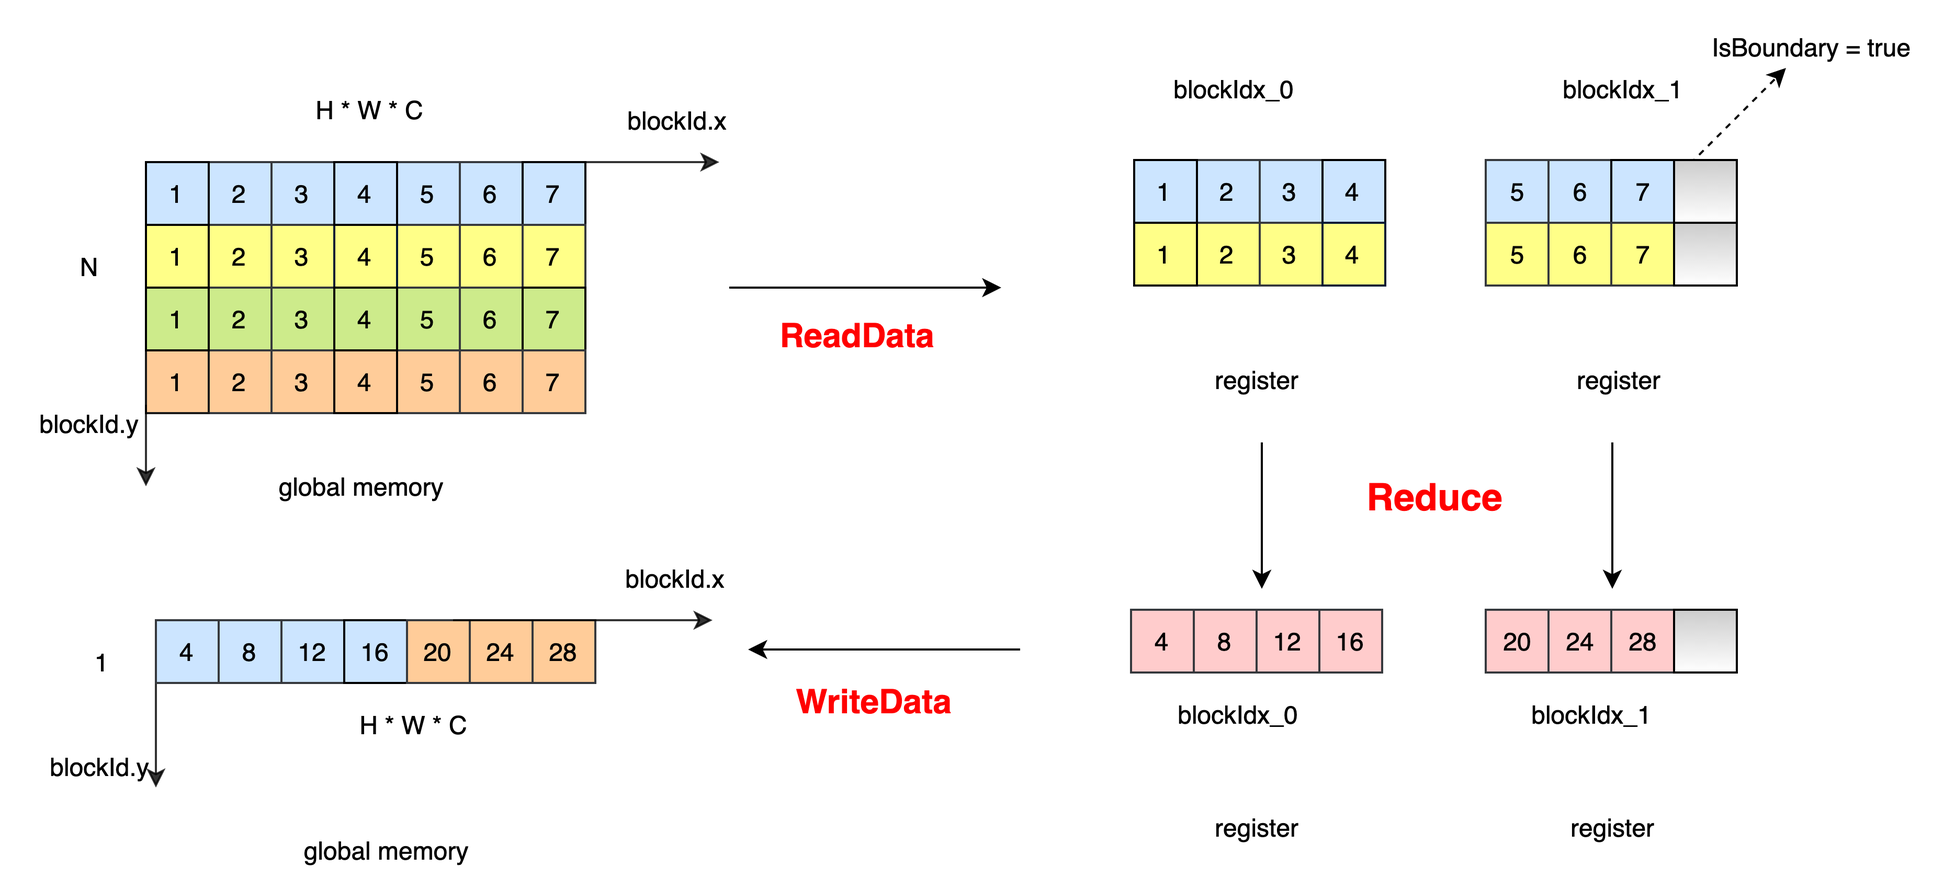
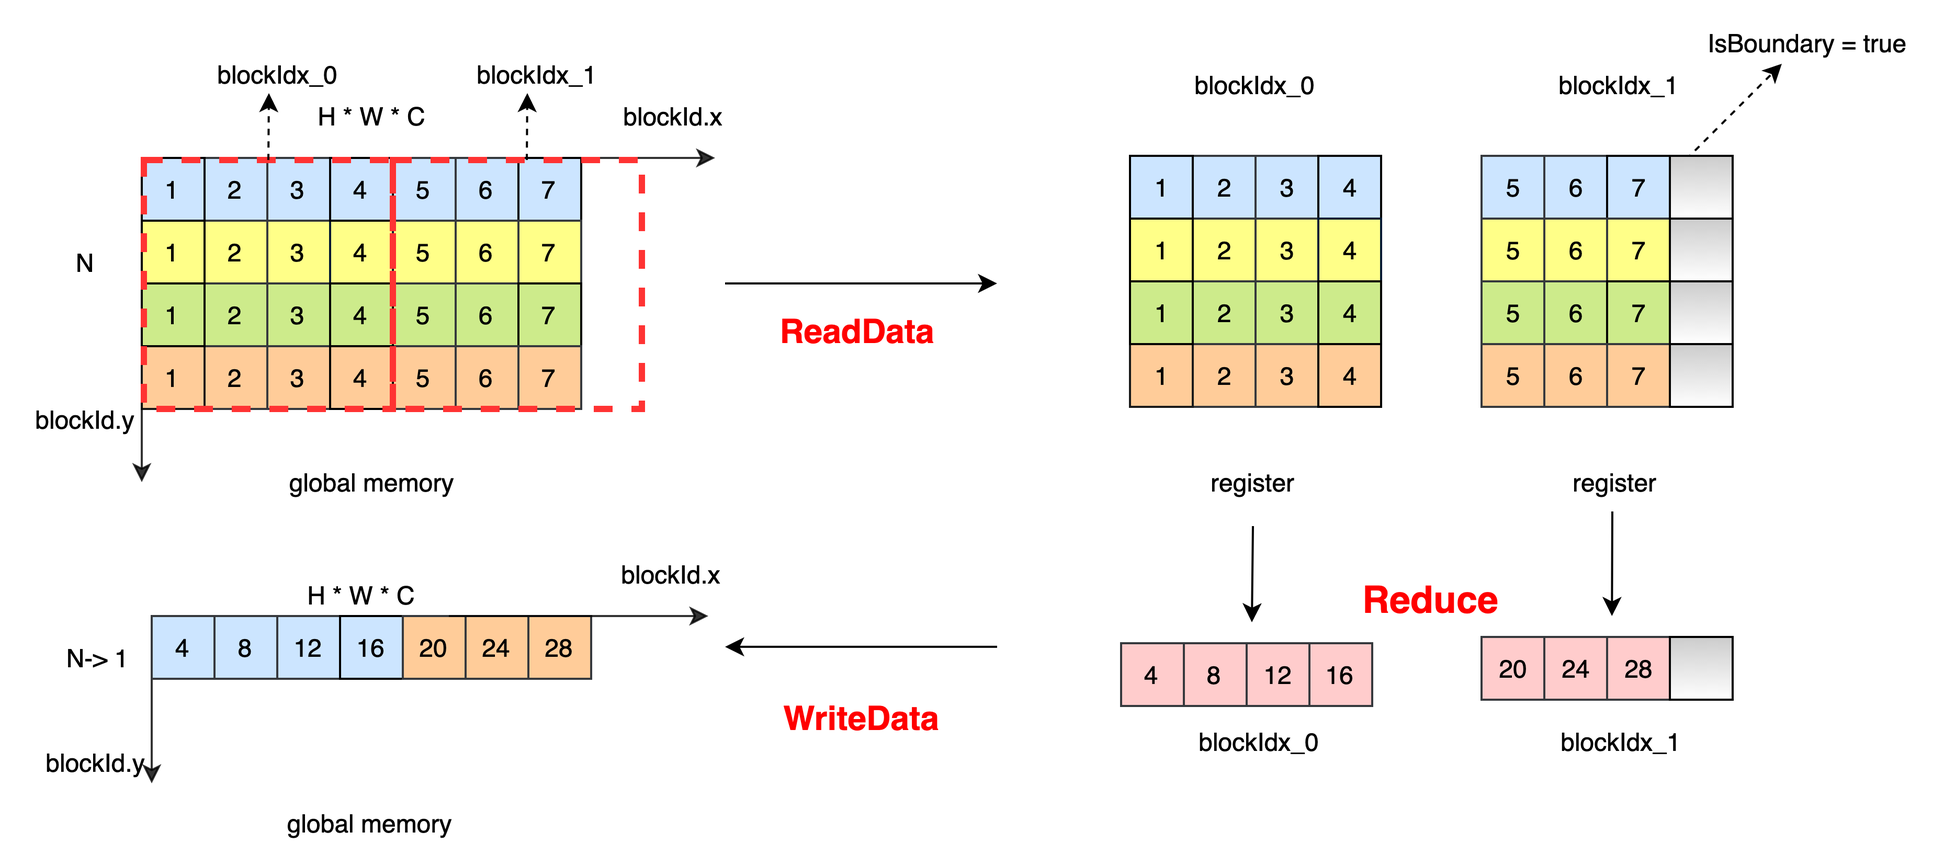
update and add example_add png

diff --git a/docs/guides/11_kernel_primitives_api/compute_api_cn.md b/docs/guides/11_kernel_primitives_api/compute_api_cn.md
@@ -32,7 +32,7 @@ __device__ void ElementwiseUnary(OutT* out, const InT* in, OpFunc compute)；
 
 > out ：输出寄存器指针，大小为 NX * NY。</br>
 > in ：输入寄存器指针，大小为 NX * NY。</br>
-> compute ：计算函数，声明为 OpFunc&lt;InT, OutT&gt;()。</br>
+> compute ：计算函数，声明为 XxxFunctor&lt;InT, OutT&gt;()。</br>
 
 ## [ElementwiseBinary](https://github.com/PaddlePaddle/Paddle/blob/develop/paddle/fluid/operators/kernel_primitives/compute_primitives.h#L173)
 ### 函数定义
@@ -55,9 +55,9 @@ __device__ void ElementwiseBinary(OutT* out, const InT* in1, const InT* in2, OpF
 > BlockSize ：设备属性，标识当前设备线程索引方式。对于 GPU，threadIdx.x 用作线程索引，当前该参数暂不支持。</br>
 > OpFunc ：计算函数，定义方式如下：</br>
 ```
-  template <typename InT, typename OutT>
+  template <typename InT>
   struct XxxFunctor {
-    HOSTDEVICE OutT operator()(const InT& a, const InT& b) const {
+    HOSTDEVICE InT operator()(const InT& a, const InT& b) const {
       return ...;
     }
   };
@@ -69,7 +69,7 @@ __device__ void ElementwiseBinary(OutT* out, const InT* in1, const InT* in2, OpF
 > out ：输出寄存器指针，大小为 NX * NY。</br>
 > in1 ：左操作数寄存器指针，大小为 NX * NY。</br>
 > in2 ：右操作数寄存器指针，大小为 NX * NY。</br>
-> compute ：声明为 OpFunc&lt;InT, OutT&gt;() 的计算对象。</br>
+> compute ：声明为 XxxFunctor&lt;InT&gt;() 的计算对象。</br>
 
 ## [CycleBinary](https://github.com/PaddlePaddle/Paddle/blob/develop/paddle/fluid/operators/kernel_primitives/compute_primitives.h#L291)
 
@@ -82,7 +82,7 @@ __device__ void CycleBinary(OutT* out, const InT* in1, const InT* in2, OpFunc co
 
 ### 函数说明
 
-按照 OpFunc 中的计算规则对 in1、in2 进行计算，将计算结果按照 OutT 类型存储到寄存器 out 中。in1 的 Shape 为[1, NX], in2 的 Shape 为 [NY, NX]，实现 in1，in2 的循环计算，out 的 Shape 是[NY, NX]。
+按照 OpFunc 中的计算规则对 in1、in2 进行计算，将计算结果按照 OutT 类型存储到寄存器 out 中。in1 的 Shape 为[1, NX]，in2 的 Shape 为 [NY, NX]，实现 in1，in2 的循环计算，out 的 Shape 是[NY, NX]。
 
 ### 模板参数
 
@@ -93,9 +93,9 @@ __device__ void CycleBinary(OutT* out, const InT* in1, const InT* in2, OpFunc co
 > BlockSize ：设备属性，标识当前设备线程索引方式。对于 GPU，threadIdx.x 用作线程索引，当前该参数暂不支持。</br>
 > OpFunc ：计算函数，定义方式如下：</br>
 ```
-  template <typename InT, typename OutT>
+  template <typename InT>
   struct XxxFunctor {
-    HOSTDEVICE OutT operator()(const InT& a, const InT& b) const {
+    HOSTDEVICE InT operator()(const InT& a, const InT& b) const {
       return ...;
     }
   };
@@ -107,7 +107,7 @@ __device__ void CycleBinary(OutT* out, const InT* in1, const InT* in2, OpFunc co
 > out ：输出寄存器指针，大小为 NX * NY。</br>
 > in1 ：左操作数寄存器指针，大小为 NX。</br>
 > in2 ：右操作数寄存器指针，大小为 NX * NY。</br>
-> compute ：声明为 OpFunc&lt;InT, OutT&gt;() 的计算对象。</br>
+> compute ：声明为 XxxFunctor&lt;InT&gt;() 的计算对象。</br>
 
 ## [ElementwiseTernary](https://github.com/PaddlePaddle/Paddle/blob/develop/paddle/fluid/operators/kernel_primitives/compute_primitives.h#L210)
 
@@ -132,9 +132,9 @@ template <typename InT, typename OutT, int NX, int NY, int BlockSize, class OpFu
 > BlockSize ：设备属性，标识当前设备线程索引方式。对于 GPU，threadIdx.x 用作线程索引，当前该参数暂不支持。</br>
 > OpFunc ：计算函数，定义方式如下：</br>
 ```
-  template <typename InT, typename OutT>
+  template <typename InT>
   struct XxxFunctor {
-    HOSTDEVICE OutT operator()(const InT& a, const InT& b, const InT& c) const {
+    HOSTDEVICE InT operator()(const InT& a, const InT& b, const InT& c) const {
       return ...;
     }
   };
@@ -143,10 +143,10 @@ template <typename InT, typename OutT, int NX, int NY, int BlockSize, class OpFu
 ### 函数参数
 
 > out ：输出寄存器指针，大小为 NX * NY。</br>
-> in1 ：操作数1的寄存器指针，大小为 NX * NY。</br>
-> in2 ：操作数2的寄存器指针，大小为 NX * NY。</br>
-> in3 ：操作数3的寄存器指针，大小为 NX * NY。</br>
-> compute : 声明为 OpFunc&lt;InT, OutT&gt;() 的计算对象。</br>
+> in1 ：操作数 1 的寄存器指针，大小为 NX * NY。</br>
+> in2 ：操作数 2 的寄存器指针，大小为 NX * NY。</br>
+> in3 ：操作数 3 的寄存器指针，大小为 NX * NY。</br>
+> compute ：声明为 XxxFunctor&lt;InT&gt;() 的计算对象。</br>
 
 ## [ElementwiseAny](https://github.com/PaddlePaddle/Paddle/blob/develop/paddle/fluid/operators/kernel_primitives/compute_primitives.h#L250)
 
@@ -171,9 +171,9 @@ __device__ void ElementwiseAny(OutT* out, InT (*ins)[NX * NY], OpFunc compute);
 > Arity ：指针数组 ins 中指针个数。</br>
 > OpFunc ：计算函数，定义方式如下：</br>
 ```
-template <typename InT, typename OutT>
+template <typename InT>
   struct XxxFunctor {
-    HOSTDEVICE OutT operator()(const InT* args) const {
+    HOSTDEVICE InT operator()(const InT* args) const {
       return ...;
     }
   };
@@ -182,8 +182,8 @@ template <typename InT, typename OutT>
 ### 函数参数
 
 > out ：输出寄存器指针，大小为 NX * NY。</br>
-> ins ：由多输入指针构成的指针数组，大小为Arity。</br>
-> compute ：声明为 OpFunc&lt;InT, OutT&gt;() 的计算对象。</br>
+> ins ：由多输入指针构成的指针数组，大小为 Arity。</br>
+> compute ：声明为 XxxFunctor&lt;InT&gt;() 的计算对象。</br>
 
 ## [Reduce](https://github.com/PaddlePaddle/Paddle/blob/develop/paddle/fluid/operators/kernel_primitives/compute_primitives.h#L332)
 
@@ -208,9 +208,9 @@ ReduceMax 数据处理过程如下：</br>
 > BlockSize ：设备属性，标识当前设备线程索引方式。对于 GPU，threadIdx.x 用作线程索引，当前该参数暂不支持。</br>
 > ReduceFunctor ：Reduce计算函数，定义方式如下：</br>
 ```
-  template <typename InT>
-  struct XxxFunctor {
-     HOSTDEVICE OutT operator()(const InT& a, const InT& b) const {
+  template <typename T>
+  struct ReduceFunctor {
+     HOSTDEVICE T operator()(const T& a, const T& b) const {
        return ...;
      }
   };
@@ -221,5 +221,5 @@ ReduceMax 数据处理过程如下：</br>
 
 > out ：输出寄存器指针，大小为 NX * NY。</br>
 > in ：输入寄存器指针，大小为 NX * NY。</br>
-> reducer ：规约方式，可以使用 ReduceFunctor&lt;InT&gt;() 进行定义。</br>
+> reducer ：规约方式，可以使用 ReduceFunctor&lt;T&gt;() 进行定义。</br>
 > reduce_last_dim ：表示原始输入的最后一维是否进行规约。</br>

diff --git a/docs/guides/11_kernel_primitives_api/compute_api_en.md b/docs/guides/11_kernel_primitives_api/compute_api_en.md
@@ -32,7 +32,7 @@ Calculate in according to the calculation rules in OpFunc, and store the calcula
 
 > out: Output register pointer, the size is NX * NY. </br>
 > in: Input register pointer, the size is NX * NY. </br>
-> compute: Calculation function, declared as OpFunc&lt;InT, OutT&gt;(). </br>
+> compute: Calculation function, declared as XxxFunctor&lt;InT&gt;(). </br>
 
 ## [ElementwiseBinary](https://github.com/PaddlePaddle/Paddle/blob/develop/paddle/fluid/operators/kernel_primitives/compute_primitives.h#L173)
 ### Function Definition
@@ -55,9 +55,9 @@ Calculate in1 and in2 according to the calculation rules in OpFunc, and store th
 > OpFunc: calculation function, defined as follows:</br>
 
 ```
-  template <typename InT, typename OutT>
+  template <typename InT>
   struct XxxFunctor {
-    HOSTDEVICE OutT operator()(const InT& a, const InT& b) const {
+    HOSTDEVICE InT operator()(const InT& a, const InT& b) const {
       return ...;
     }
   };
@@ -69,7 +69,7 @@ Calculate in1 and in2 according to the calculation rules in OpFunc, and store th
 > out: Output register pointer, the size is NX * NY. </br>
 > in1: The pointer of the left operand register, the size is NX * NY. </br>
 > in2: Right operand register pointer, the size is NX * NY. </br>
-> compute: The calculation object declared as OpFunc&lt;InT, OutT&gt;(). </br>
+> compute: The calculation object declared as XxxFunctor&lt;InT&gt;(). </br>
 
 ## [CycleBinary](https://github.com/PaddlePaddle/Paddle/blob/develop/paddle/fluid/operators/kernel_primitives/compute_primitives.h#L291)
 
@@ -93,9 +93,9 @@ Calculate in1 and in2 according to the calculation rules in the OpFunc, and stor
 > BlockSize: Device attribute, which identifies the current device thread indexing method. For GPU, threadIdx.x is used as the thread index, This parameter is not currently supported. </br>
 > OpFunc: calculation function, defined as follows:</br>
 ```
-  template <typename InT, typename OutT>
+  template <typename InT>
   struct XxxFunctor {
-    HOSTDEVICE OutT operator()(const InT& a, const InT& b) const {
+    HOSTDEVICE InT operator()(const InT& a, const InT& b) const {
       return ...;
     }
   };
@@ -107,7 +107,7 @@ Calculate in1 and in2 according to the calculation rules in the OpFunc, and stor
 > out: Output register pointer, the size is NX * NY. </br>
 > in1: The pointer of the left operand register, the size is NX. </br>
 > in2: Right operand register pointer, the size is NX * NY. </br>
-> compute: The calculation object declared as OpFunc&lt;InT, OutT&gt;(). </br>
+> compute: The calculation object declared as XxxFunctor&lt;InT&gt;(). </br>
 
 ## [ElementwiseTernary](https://github.com/PaddlePaddle/Paddle/blob/develop/paddle/fluid/operators/kernel_primitives/compute_primitives.h#L210)
 
@@ -133,9 +133,9 @@ Calculate in1, in2, and in3 according to the calculation rules in OpFunc, and st
 > OpFunc: calculation function, defined as follows:</br>
 
 ```
-  template <typename InT, typename OutT>
+  template <typename InT>
   struct XxxFunctor {
-    HOSTDEVICE OutT operator()(const InT& a, const InT& b, const InT& c) const {
+    HOSTDEVICE InT operator()(const InT& a, const InT& b, const InT& c) const {
       return ...;
     }
   };
@@ -147,7 +147,7 @@ Calculate in1, in2, and in3 according to the calculation rules in OpFunc, and st
 > in1: The register pointer of operand 1, the size is NX * NY. </br>
 > in2: The register pointer of operand 2, the size is NX * NY. </br>
 > in3: The register pointer of operand 3, the size is NX * NY. </br>
-> compute: Declared as the calculation object of OpFunc&lt;InT, OutT&gt;(). </br>
+> compute: Declared as the calculation object of XxxFunctor&lt;InT&gt;(). </br>
 
 ## [ElementwiseAny](https://github.com/PaddlePaddle/Paddle/blob/develop/paddle/fluid/operators/kernel_primitives/compute_primitives.h#L250)
 
@@ -172,9 +172,9 @@ Calculate the input in ins according to the calculation rules in OpFunc, and sto
 > Arity: The number of pointers in the pointer array ins. </br>
 > OpFunc: calculation function, defined as follows:</br>
 ```
-template <typename InT, typename OutT>
+template <typename InT>
   struct XxxFunctor {
-    HOSTDEVICE OutT operator()(const InT* args) const {
+    HOSTDEVICE InT operator()(const InT* args) const {
       return ...;
     }
   };
@@ -185,7 +185,7 @@ template <typename InT, typename OutT>
 
 > out: Output register pointer, the size is NX * NY. </br>
 > ins: A pointer array composed of multiple input pointers, the size is Arity. </br>
-> compute: The calculation object declared as OpFunc&lt;InT, OutT&gt;(). </br>
+> compute: The calculation object declared as XxxFunctor&lt;InT&gt;(). </br>
 
 ## [Reduce](https://github.com/PaddlePaddle/Paddle/blob/develop/paddle/fluid/operators/kernel_primitives/compute_primitives.h#L332)
 
@@ -210,9 +210,9 @@ The data processing process of ReduceMax is as follows:</br>
 > BlockSize: Device attribute, which identifies the current device thread indexing method. For GPU, threadIdx.x is used as the thread index, This parameter is not currently supported. </br>
 > ReduceFunctor: Reduce calculation function, defined as follows:</br>
 ```
-  template <typename InT>
-  struct XxxFunctor {
-     HOSTDEVICE OutT operator()(const InT& a, const InT& b) const {
+  template <typename T>
+  struct ReduceFunctor {
+     HOSTDEVICE T operator()(const T& a, const T& b) const {
        return ...;
      }
   };
@@ -223,5 +223,5 @@ The data processing process of ReduceMax is as follows:</br>
 
 > out: Output register pointer, the size is NX * NY. </br>
 > in: Input register pointer, the size is NX * NY. </br>
-> reducer: reduction method, which can be defined using ReduceFunctor&lt;InT&gt;(). </br>
+> reducer: reduction method, which can be defined using ReduceFunctor&lt;T&gt;(). </br>
 > reduce_last_dim: Indicates whether the last dimension of the original input is reduced. </br>

diff --git a/docs/guides/11_kernel_primitives_api/add_example_en.md b/docs/guides/11_kernel_primitives_api/add_example_en.md
@@ -7,15 +7,16 @@
 ```
 OpFunc : Used to define calculation rules. Addfunctor is defined as follows:
 
-template <typename InT, typename OutT = OutT>
+template <typename InT>
 struct AddFunctor {
-  HOSTDEVICE OutT operator()(const InT &a, const InT &b) const { return static_cast<OutT>(a + b); }
+  HOSTDEVICE InT operator()(const InT &a, const InT &b) const { return (a + b); }
 };
 
 ```
 ### Kernel Description
-
-VecSize means that each thread continuously reads VecSize elements. According to the relationship between the remaining elements num and the maximum number of elements processed by each Block VecSize * blockDim.x, the data processing is divided into two parts. The first part is VecSize * blockDim. x > num indicates that the current data processing requires boundary processing, set IsBoundary to true to avoid fetching out of bounds. In the second part, no boundary processing is required, set IsBoundary = false. Note that the Init function is used here to initialize the registers arg0 and arg1 to avoid the situation where arg0 or arg1 is used as a divisor to be 0. The summation operation of two numbers is completed according to OpFunc. When two numbers need to be multiplied, the Functor can be directly modified. Kernel code can be reused directly to improve development efficiency.
+Each thread reads VecSize elements continuously, and divides the data processing into 2 parts according to the relationship between the remaining elements num and VecSize * blockDim.x. The first part, when VecSize * blockDim.x > num, indicates that the current data processing requires boundary processing, IsBoundary is set to true to avoid memory fetching out of bounds; the second part, no boundary processing is required, set IsBoundary = false. According to the data pointer of the current block, the data is read from the global memory to the register, and after the addition operation, the data is written into the global memory. Note that the Init function is used here to initialize the registers arg0 and arg1 to avoid the situation where arg0 or arg1 is used as the denominator to be 0. The summation of two numbers is completed according to OpFunc. When two numbers need to be multiplied, the Functor can be directly modified. Kernel code can be reused directly to improve development efficiency. </br>
+The data processing process of ElementwiseAdd is as follows:</br>
+![ElementwiseAdd](./images/example_add.png)
 
 ### Code
 

diff --git a/docs/guides/11_kernel_primitives_api/add_example_cn.md b/docs/guides/11_kernel_primitives_api/add_example_cn.md
@@ -7,15 +7,18 @@
 ```
 OpFunc: 用于定义当前数据的计算规则，AddFunctor 定义如下：
 
-template <typename InT, typename OutT = OutT>
+template <typename InT>
 struct AddFunctor {
-  HOSTDEVICE OutT operator()(const InT &a, const InT &b) const { return static_cast<OutT>(a + b); }
+  HOSTDEVICE InT operator()(const InT &a, const InT &b) const { return (a + b); }
 };
 
 ```
 ### Kernel 实现说明
 
-VecSize 表示每个线程连续读取 VecSize 个元素，根据剩余元素 num 与每个 Block 最大处理的元素个数 VecSize * blockDim.x 的关系，将数据处理分为 2 部分，第一部分，当 VecSize * blockDim.x > num 表示当前数据处理需要进行边界处理，因此将 IsBoundary 设置为 true，避免访存越界; 第二部分，不需要进行边界处理，设置 IsBoundary = false。注意此处使用 Init 函数对寄存器 arg0，arg1 进行初始化，避免当 arg0 或者 arg1 作为分母时出现为 0 的情况。此处根据 OpFunc 完成两数求和操作，当需要进行两数相乘，可以直接修改对应的 Functor 即可，可以直接复用 Kernel 代码，提升开发效率。
+每个线程连续读取 VecSize 个元素，根据剩余元素 num 与 VecSize * blockDim.x 的关系，将数据处理分为 2 部分，第一部分，当 VecSize * blockDim.x > num 表示当前数据处理需要进行边界处理，将 IsBoundary 设置为 true，避免访存越界; 第二部分，不需要进行边界处理，设置 IsBoundary = false。根据当前 block 的数据指针，将数据从全局内存中读取到寄存器中，完成加法操作后，将数据写入全局内存中。注意此处使用 Init 函数对寄存器 arg0，arg1 进行初始化，避免当 arg0 或者 arg1 作为分母时出现为 0 的情况。根据 OpFunc 完成两数求和操作，当需要进行两数相乘，可以直接修改对应的 Functor 即可，可以直接复用 Kernel 代码，提升开发效率。
+
+数据处理过程如下：
+![ElementwiseAdd](./images/example_add.png)
 
 ### Kernel 代码
 

diff --git a/docs/guides/11_kernel_primitives_api/functor_api_en.md b/docs/guides/11_kernel_primitives_api/functor_api_en.md
@@ -322,7 +322,7 @@ float out = functor(input1, input2);
 In the current calculation function, only ElementwiseAny supports setting the functor parameter as a pointer, and the functor of other calculation functions can only be set as a normal parameter.
 
 ### Pointer Array
-When defining ElementwiseAny's Functor, you need to ensure that the parameter of the overloaded operate() function is a pointer. For example, to realize the function: (a + b) * c + d, you can combine ElementwiseAny and Functor to complete the calculation.
+When defining the Functor of ElementwiseAny, you need to ensure that the parameter of the operate() function is an array pointer. For example, to realize the function: (a + b) * c + d, you can combine ElementwiseAny and Functor to complete the corresponding calculation.
 
 ExampleFunctor1:
 ```
@@ -335,7 +335,7 @@ struct ExampleFunctor1 {
 
 ```
 // Global memory input pointer input0, input1, input2, input3
-auto functor = ExampleFunctor1<float>;
+auto functor = ExampleFunctor1<float>();
 
 const int NX = 4;
 const int NY = 1;
@@ -369,7 +369,7 @@ struct ExampleFunctor2 {
 
 ```
 // Global memory input pointer input0, input1, input2
-auto functor = ExampleFunctor2<float>;
+auto functor = ExampleFunctor2<float>();
 
 const int NX = 4;
 const int NY = 1;

diff --git a/docs/guides/11_kernel_primitives_api/reduce_example_en.md b/docs/guides/11_kernel_primitives_api/reduce_example_en.md
@@ -23,7 +23,7 @@ struct AddFunctor {
 ```
 ### Kernel Description
 
-Perform the reduction operation on the highest dimension, merge the dimensions that do not need to be reduced, and map blockIdx.x to the dimensions that do not need to be reduced to ensure maximum access and storage efficiency. There is no dependency on data between threads, only intra-thread protocol operations are required. When num < blockDim.x, IsBounary needs to be set to true, indicating that the memory access boundary judgment needs to be performed to avoid access to memory out of range.</br>
+Perform reduction operations on the highest dimension, merge the dimensions that do not need to be reduced, and divide H * W * C into blocks according to NX and blockDim.x. For blockIdx_1, if the number of data is less than blockDim.x * NX, set IsBoundary = true to avoid memory fetching out of bounds. Read data from global memory to registers, each thread reads 4 elements, there is no dependence on data between threads, and the final result is obtained by intra-thread protocol operation. Write data from the register to the global memory.
 
 The data processing process of ReduceSum is as follows:</br>
 ![Reduce](./images/example_reduce.png)

diff --git a/docs/guides/11_kernel_primitives_api/functor_api_cn.md b/docs/guides/11_kernel_primitives_api/functor_api_cn.md
@@ -318,7 +318,7 @@ float out = functor(input1, input2);
 当前计算函数中仅 ElementwiseAny 支持 Functor 参数设置为指针，其他计算函数的 Functor 仅能设置为普通参数。
 
 ### 指针传递
-在进行 ElementwiseAny 的 Functor 定义时候需要保证重载的 operate() 函数的参数是数组指针。例如要实现功能： (a + b) * c + d， 则可以结合 ElementwiseAny 与 Functor 完成对应计算。
+在进行 ElementwiseAny 的 Functor 定义时，需要保证 operate() 函数的参数是数组指针。例如要实现功能： (a + b) * c + d， 则可以结合 ElementwiseAny 与 Functor 完成对应计算。
 
 ExampleFunctor1 定义:
 ```
@@ -331,7 +331,7 @@ struct ExampleFunctor1 {
 
 ```
 // 全局内存输入指针 input0, input1, input2, input3
-auto functor = ExampleFunctor1<float>;
+auto functor = ExampleFunctor1<float>();
 
 const int NX = 4;
 const int NY = 1;
@@ -365,7 +365,7 @@ struct ExampleFunctor2 {
 
 ```
 // 全局内存输入指针 input0, input1, input2
-auto functor = ExampleFunctor2<float>;
+auto functor = ExampleFunctor2<float>();
 
 const int NX = 4;
 const int NY = 1;

diff --git a/docs/guides/11_kernel_primitives_api/reduce_example_cn.md b/docs/guides/11_kernel_primitives_api/reduce_example_cn.md
@@ -25,7 +25,7 @@ struct AddFunctor {
 ```
 ### kernel 实现说明
 
-对最高维进行规约操作，将不需要进行规约的维度进行合并，将 blockIdx.x 映射到不需要进行规约的维度，保证访问存储效率最大。线程间数据没有依赖，只需要进行线程内规约操作。当num < blockDim.x时需要将 IsBounary 设置为 true，表明需要进行访存边界判断，避免访问存储越界。</br>
+对最高维进行规约操作，将不需要进行规约的维度进行合并，根据 NX 和 blockDim.x 对 H * W * C 进行 block 划分。对于 blockIdx_1，数据个数小于 blockDim.x * NX，则设置 IsBoundary = true，避免访存越界。将数据从全局内存中读取到寄存器中，每个线程读取 4 个元素，线程间数据没有依赖，进行线程内规约操作得到最终结果。将数据从寄存器写入全局内存中。
 ReduceSum 数据处理过程如下：</br>
 ![Reduce](./images/example_reduce.png)
 

diff --git a/docs/guides/11_kernel_primitives_api/io_api_cn.md b/docs/guides/11_kernel_primitives_api/io_api_cn.md
@@ -182,4 +182,4 @@ __device__ void WriteData(T* dst, T* src, int num);
 
 > dst : 当前 Block 的输出数据指针。</br>
 > src : 寄存器指针，大小为 NX * NY。</br>
-> num : 当前 Block 对多读取 num 个元素，参数仅在 IsBoundary = true 时使用。</br>
+> num : 当前 Block 最多读取 num 个元素，参数仅在 IsBoundary = true 时使用。</br>
